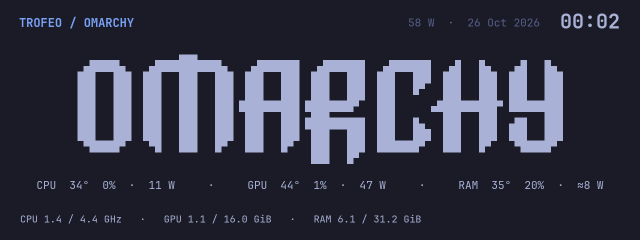
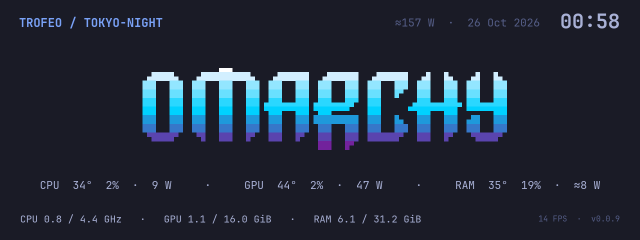
docs: gallery adds Picture FX; colored Omarchy and Metrics FX; refreshed panel tabs

diff --git a/README.es.md b/README.es.md
@@ -48,9 +48,9 @@ Los diseños propios tal como los muestra la Trofeo (1280×480, aquí a la mitad
   <tr><td align="center">Matrix</td><td align="center">Omarchy</td></tr>
   <tr>
     <td><img src="assets/gallery/lcd-fx.png" alt="Métricas FX" width="400"></td>
-    <td></td>
+    <td><img src="assets/gallery/lcd-picture.png" alt="Picture FX" width="400"></td>
   </tr>
-  <tr><td align="center">Métricas FX</td><td></td></tr>
+  <tr><td align="center">Métricas FX</td><td align="center">Picture FX</td></tr>
 </table>
 
 ## Funciones

diff --git a/README.md b/README.md
@@ -49,9 +49,9 @@ Built-in layouts as the Trofeo shows them (1280×480, here at half size):
   <tr><td align="center">Matrix</td><td align="center">Omarchy</td></tr>
   <tr>
     <td><img src="assets/gallery/lcd-fx.png" alt="Metrics FX" width="400"></td>
-    <td></td>
+    <td><img src="assets/gallery/lcd-picture.png" alt="Picture FX" width="400"></td>
   </tr>
-  <tr><td align="center">Metrics FX</td><td></td></tr>
+  <tr><td align="center">Metrics FX</td><td align="center">Picture FX</td></tr>
 </table>
 
 ## Features
